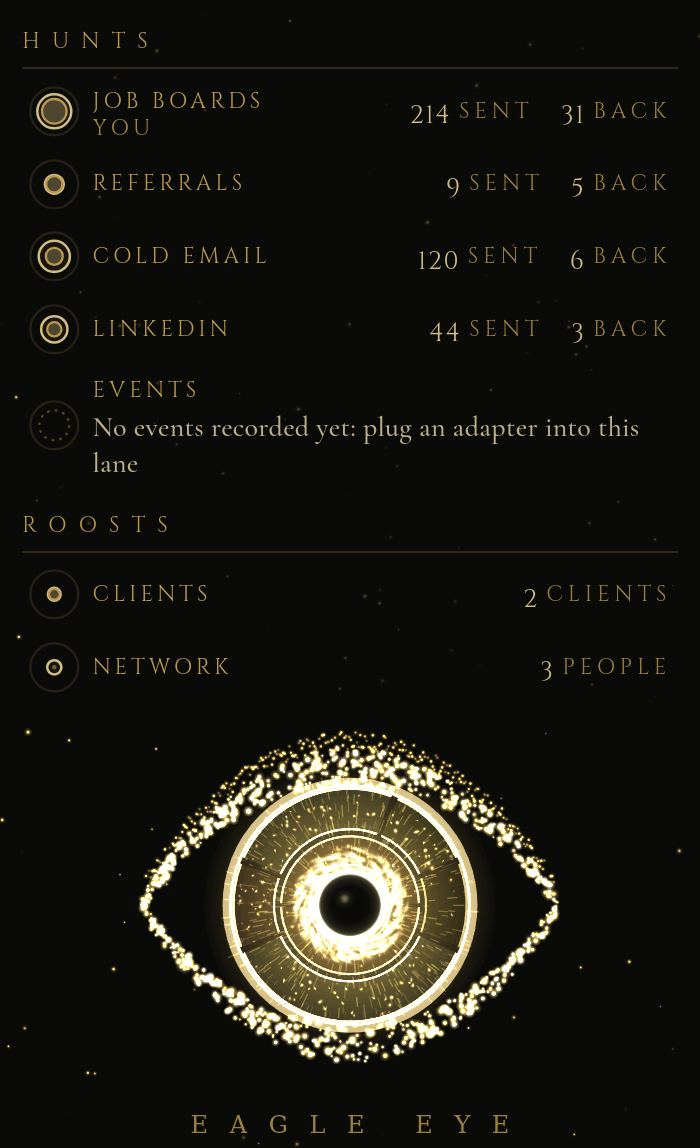
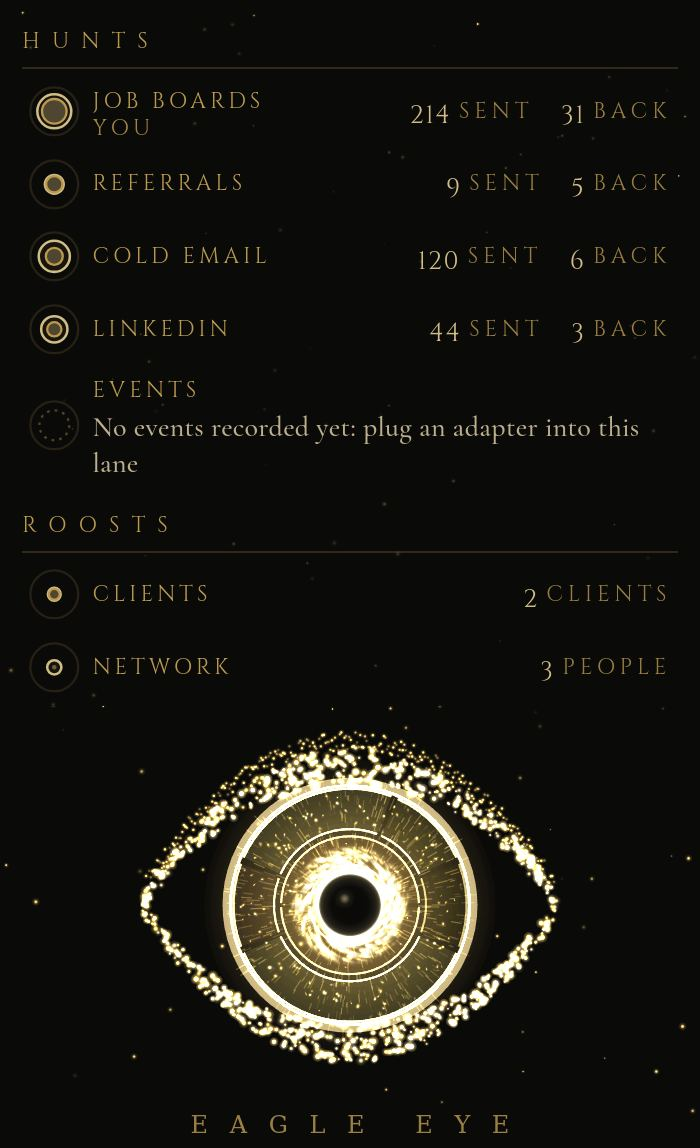
site: keep the demo at native size (the product stacks lanes above the eye at every width; 1920 scaling only shrank the text)
Claude-Session: https://claude.ai/code/session_01FToiXZenbqkdirSTZ3T83Q

Changed region(s): [[0.18, 0.6402, 0.81, 0.9451]]

diff --git a/site/styles.css b/site/styles.css
@@ -155,10 +155,8 @@ h3 { margin: 0; font-family: var(--display); font-weight: 500; font-size: 1.12re
 .tick.bl { bottom: 0; left: 0; border-bottom-width: 1px; border-left-width: 1px; }
 .tick.br { bottom: 0; right: 0; border-bottom-width: 1px; border-right-width: 1px; }
 .frame-inner { position: relative; aspect-ratio: 16 / 9; background: var(--ink) url(/assets/demo-1440.jpg) center / cover no-repeat; overflow: hidden; }
-.frame-inner iframe { position: absolute; top: 0; left: 0; width: 100%; height: 100%; transform-origin: 0 0; border: 0; display: block; background: var(--ink); opacity: 0; transition: opacity 0.8s var(--ease); color-scheme: dark; }
+.frame-inner iframe { position: absolute; top: 0; left: 0; width: 100%; height: 100%; border: 0; display: block; background: var(--ink); opacity: 0; transition: opacity 0.8s var(--ease); color-scheme: dark; }
 .frame-inner iframe.loaded { opacity: 1; }
-/* desktop: render the demo at 1920x1080 and scale it down, so lanes flank the eye as on a wall */
-@media (min-width: 761px) { .frame-inner iframe { width: 1920px; height: 1080px; transform: scale(var(--demo-scale, 0.6)); } }
 figcaption { display: flex; flex-wrap: wrap; justify-content: space-between; align-items: baseline; gap: 10px 24px; padding: 18px 4px 0; color: var(--text-dim); font-size: 1.05rem; }
 figcaption b { color: var(--gold); font-weight: 500; }
 .screens { margin: 34px 0 0; display: flex; flex-wrap: wrap; align-items: center; justify-content: center; gap: 10px 16px; font-family: var(--display); font-size: var(--label); letter-spacing: 0.3em; text-transform: uppercase; color: var(--gold); }

diff --git a/site/main.js b/site/main.js
@@ -41,8 +41,6 @@ fetch('https://api.github.com/repos/utopia-models/eagle-eye', { headers: { Accep
 // ── the demo runs only while it is near the screen (its own eye is a live canvas) ──
 const demo = document.querySelector('iframe[data-src]');
 if (demo) {
-  const fit = () => demo.parentElement.style.setProperty('--demo-scale', String(demo.parentElement.clientWidth / 1920));
-  fit(); addEventListener('resize', fit);
   demo.addEventListener('load', () => demo.classList.toggle('loaded', demo.src !== 'about:blank' && !!demo.getAttribute('src')));
   new IntersectionObserver(([e]) => {
     if (e.isIntersecting) { if (!demo.src || demo.src === 'about:blank') demo.src = demo.dataset.src; }
